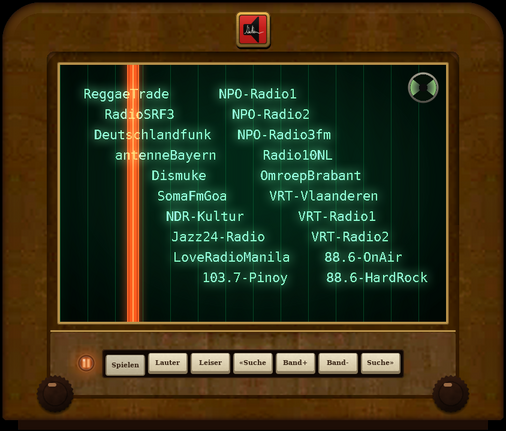
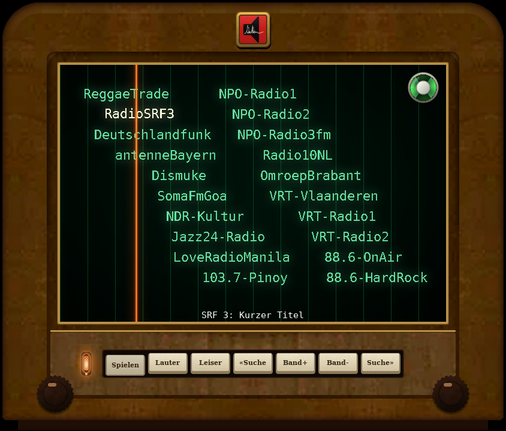
Dial: narrow needle, softer lettering; realistic magic eye and neon tube, no flicker
- Tuner is a narrow glowing needle instead of the wide glass bar.
- Station names, backlight and bloom are dimmer.
- Flickering removed (looked artificial); no extra frames any more.
- Magic eye like a real tube seen from the top: vivid green ring with
  angular light patches, light grey metal cap, dim green shadow sectors,
  glass reflection.
- Pilot lamp as an upright neon glow tube with a cross-hatched mesh
  electrode, bright spot, warm halo and glass tip; in a small window.

diff --git a/cabinet.c b/cabinet.c
@@ -5,7 +5,7 @@
  * A post-war table radio in the style of around 1950: box-shaped walnut
  * case with rounded top edges, a wide light veneer frame around a darker
  * front panel holding the dial, a figured lower panel with a row of small
- * ivory push buttons with printed labels, a neon pilot lamp and two
+ * ivory push buttons with printed labels, a neon glow lamp and two
  * Bakelite knobs that work as step buttons (left / right, repeating while
  * held). The magic eye (eye_init / eye_render) sits in the dial.
  *
@@ -380,9 +380,8 @@ static SDL_Surface *draw_case(void)
     rrect(s, kx - 6, ky - 6, kx2 + KEY_W + 6, ky + KEY_H + 8, 5, 0x100804, 1.5, 0x3a2412);
   }
 
-  /* lamp socket */
-  rrect(s, LAMP_X - LAMP_R - 4, LAMP_Y - LAMP_R - 4, LAMP_X + LAMP_R + 4, LAMP_Y + LAMP_R + 4,
-        LAMP_R + 4, 0x1a0d06, 2.5, 0x6a4a28);
+  /* window for the neon tube */
+  rrect(s, LAMP_X - 11, LAMP_Y - 21, LAMP_X + 11, LAMP_Y + 23, 8, 0x1a0d06, 2.5, 0x6a4a28);
   return s;
 }
 
@@ -455,56 +454,69 @@ static SDL_Surface *draw_knob(int k, int down)
 }
 
 /*
- * Pilot lamp as a neon glow lamp: a small glass bulb with two electrode
- * plates. state 0: off (grey glass, dark plates), 1: orange neon glow
- * around the plates, 2: red (muted).
+ * Pilot lamp as a small neon glow lamp: an upright glass tube with a
+ * cross-hatched mesh electrode that glows orange (red when muted), with a
+ * bright spot, a warm halo and the glass tip at the bottom.
+ * state 0: off (clear glass, grey mesh).
  */
 static SDL_Surface *draw_lamp(int state)
 {
   SDL_Surface *s = SDL_CreateRGBSurfaceWithFormat(0, LAMP_S, LAMP_S, 32, SDL_PIXELFORMAT_ARGB8888);
-  double c = LAMP_S / 2.0;
+  const double c = LAMP_S / 2.0, hw = 7.5, hh = 17;       /* tube half width / height */
+  uint32_t neon = state == 2 ? 0xff3010 : 0xff8a28;
   int x, y;
-  uint32_t neon = state == 2 ? 0xff2a12 : 0xff7424;
 
   if (s == NULL)
     return NULL;
   SDL_FillRect(s, NULL, 0);
   for (y = 0; y < LAMP_S; y++)
     for (x = 0; x < LAMP_S; x++) {
-      double dx = x + 0.5 - c, dy = y + 0.5 - c, r = hypot(dx, dy);
-      double e1 = hypot(fmax(fabs(dx + 3.5) - 1.2, 0), fmax(fabs(dy) - 6, 0));  /* plates */
-      double e2 = hypot(fmax(fabs(dx - 3.5) - 1.2, 0), fmax(fabs(dy) - 6, 0));
-      double e = fmin(e1, e2), a = LAMP_R - r > 1 ? 1 : LAMP_R - r;
+      double dx = x + 0.5 - c, dy = y + 0.5 - c;
+      double d = sd_rrect(x + 0.5, y + 0.5, c - hw, c - hh, c + hw, c + hh, hw);
+      double a = 0.5 - d > 1 ? 1 : 0.5 - d;
+      double in = d < -2.2;                                 /* inside the glass wall */
+      double mesh, glow;
 
-      if (state)                                                 /* halo outside */
-        blend(s, x, y, neon, 0.50 * exp(-pow(r / (LAMP_R * 1.7), 2)));
-      if (r >= LAMP_R)
+      if (state)                                            /* warm halo */
+        blend(s, x, y, neon, 0.65 * exp(-(dx * dx / 200 + dy * dy / 520)));
+      if (a <= 0)
         continue;
-      blend(s, x, y, state ? 0x6a2a10 : 0x2c2826, a * 0.92);       /* glass */
-      if (state) {                                               /* glow cloud */
-        blend(s, x, y, neon, a * exp(-e / 3.6));
-        blend(s, x, y, 0xffc890, a * 0.75 * exp(-e / 1.3));      /* hot core */
-      } else if (e < 0.8) {
-        blend(s, x, y, 0x6a6460, a * (0.8 - e));                 /* bare plates */
+      blend(s, x, y, state ? 0x5a2008 : 0x303030, a * 0.55);   /* glass body */
+      /* diagonal wire mesh in the middle of the tube */
+      mesh = fmin(fabs(fmod(dx + dy + 100, 4.0) - 2.0), fabs(fmod(dx - dy + 100, 4.0) - 2.0));
+      if (in && fabs(dx) < hw - 3 && fabs(dy) < hh - 5) {
+        double wire = mesh < 0.7 ? 1 : 0;
+        if (state) {
+          glow = exp(-(dx * dx / 18 + (dy - 2) * (dy - 2) / 90));   /* bright spot */
+          blend(s, x, y, neon, 0.85);
+          blend(s, x, y, 0xfff0c8, 0.9 * glow);
+          if (wire)
+            blend(s, x, y, 0x7a2a08, 0.55 * (1 - glow));
+        } else if (wire) {
+          blend(s, x, y, 0x8a8680, 0.8);
+        }
       }
-      if (r > LAMP_R - 2)                                        /* glass rim */
-        blend(s, x, y, 0x9a948c, a * 0.35);
-      if (hypot(dx + 4, dy + 5) < 2.2)                           /* reflection */
-        blend(s, x, y, 0xffffff, 0.45);
+      if (d > -2.2)                                          /* glass wall */
+        blend(s, x, y, state ? 0xffb070 : 0xb8b4ac, a * 0.45);
+      if (dx < -hw + 3.5 && dx > -hw + 2 && fabs(dy) < hh - 6)
+        blend(s, x, y, 0xffffff, 0.40);                    /* reflection */
     }
+  /* glass tip */
+  rrect(s, c - 2, c + hh - 1, c + 2, c + hh + 3, 2, state ? 0xffb070 : 0x9a968e, 0, 0);
   return s;
 }
 
 /*
- * Magic eye (tuning indicator tube, seen from the front): green
- * fluorescent ring around a dark cap, with two dark shadow sectors at the
- * top and bottom. open = 1: detuned, wide sectors; open = 0: tuned in,
- * the sectors are closed.
+ * Magic eye (tuning indicator tube, seen from the top): vivid green
+ * fluorescent ring under a glass dome, a light grey metal cap in the
+ * centre and two darker shadow sectors (top and bottom). open = 1:
+ * detuned, wide sectors; open = 0: tuned in, the sectors are closed.
  */
 static SDL_Surface *draw_eye(double open)
 {
   SDL_Surface *s = SDL_CreateRGBSurfaceWithFormat(0, EYE_S, EYE_S, 32, SDL_PIXELFORMAT_ARGB8888);
-  double c = EYE_S / 2.0, half = 4 + open * 50;   /* half width of a sector, degrees */
+  const double c = EYE_S / 2.0, cap = EYE_R * 0.52;
+  double half = 4 + open * 50;                     /* half width of a sector, degrees */
   int x, y;
 
   if (s == NULL)
@@ -513,25 +525,37 @@ static SDL_Surface *draw_eye(double open)
   for (y = 0; y < EYE_S; y++)
     for (x = 0; x < EYE_S; x++) {
       double dx = x + 0.5 - c, dy = y + 0.5 - c, r = hypot(dx, dy);
-      double deg = fabs(atan2(dx, -dy)) * 180 / M_PI;   /* 0 = up, 180 = down */
-      double off = deg < 90 ? deg : 180 - deg;           /* distance to the axis */
-      double edge, glow, a;
-      if (r > EYE_R && r < EYE_R + 4) {                  /* chrome bezel */
+      double ang = atan2(dx, -dy);
+      double deg = fabs(ang) * 180 / M_PI;         /* 0 = up, 180 = down */
+      double off = deg < 90 ? deg : 180 - deg;     /* distance to the axis */
+      double a, lit, facet, v;
+
+      if (r > EYE_R && r < EYE_R + 4) {            /* chrome bezel */
         double t = 1.1 - 0.5 * (dy + EYE_R) / (2.0 * EYE_R);
         blend(s, x, y, rgbf(170 * t, 165 * t, 150 * t), EYE_R + 4 - r > 1 ? 1 : EYE_R + 4 - r);
       }
       if (r > EYE_R)
         continue;
       a = EYE_R - r > 1 ? 1 : EYE_R - r;
-      blend(s, x, y, 0x06140a, a);                       /* dark glass */
-      if (r > 7) {
-        edge = (off - half) / 2.5;                       /* soft shadow edge */
-        glow = edge > 1 ? 1 : edge < 0 ? 0 : edge;
-        glow *= 0.55 + 0.45 * (r - 7) / (EYE_R - 7);     /* brighter outside */
-        blend(s, x, y, rgbf(60 + 120 * glow, 255 * glow, 90 + 60 * glow), a * glow);
+      blend(s, x, y, 0x03120a, a);                 /* dark background */
+      if (r > cap - 1) {
+        lit = (off - half) / 2.0;                  /* soft shadow edge */
+        lit = lit > 1 ? 1 : lit < 0 ? 0 : lit;
+        facet = 0.82 + 0.18 * cos(ang * 4 + 0.6);  /* angular light patches */
+        v = (0.62 + 0.38 * (r - cap) / (EYE_R - cap)) * facet;
+        /* lit: vivid green; shadow: dim green, not black */
+        blend(s, x, y, rgbf((25 + 55 * v) * (0.25 + 0.75 * lit), (255 * v) * (0.3 + 0.7 * lit),
+                            (45 + 45 * v) * (0.25 + 0.75 * lit)), a);
       }
-      if (r < 7)                                         /* cathode cap */
-        blend(s, x, y, 0x101010, 7 - r > 1 ? 1 : 7 - r);
+      if (r < cap + 0.5) {                         /* light grey metal cap */
+        double t = 1.0 - 0.25 * (dx + dy) / (2 * cap);
+        blend(s, x, y, rgbf(214 * t, 214 * t, 204 * t), cap + 0.5 - r > 1 ? 1 : cap + 0.5 - r);
+        if (r > cap - 1.2)
+          blend(s, x, y, 0x707068, 0.5);
+      }
+      /* glass dome: a soft reflection arc at the top left */
+      if (r > EYE_R * 0.72 && r < EYE_R * 0.9 && ang < -0.4 && ang > -1.6)
+        blend(s, x, y, 0xffffff, 0.22);
     }
   return s;
 }

diff --git a/roehre.c b/roehre.c
@@ -75,7 +75,6 @@
 #define TUNE_DELAY_MS 1000  // station must stay tuned this long before it plays
 #define SCAN_STEP 2         // px per tick while auto-scanning
 #define KEY_STEP 5          // px per cursor key press
-#define FLICKER_MS 50       // magic eye / neon lamp flicker frame rate
 #define NOISE_LEVEL 0.35    // static at full volume when fully detuned
 #define KNOB_DELAY_MS 400   // cabinet knob held: repeat after ...
 #define KNOB_REPEAT_MS 50   // ... one step every ...
@@ -532,8 +531,8 @@ static void draw_grid(void)
 
 static void draw_stations(void)
 {
-  const SDL_Color normal = { 120, 238, 172, 255 };     /* backlit mint green */
-  const SDL_Color highlight = { 255, 250, 205, 255 };
+  const SDL_Color normal = { 92, 196, 140, 255 };      /* backlit mint green */
+  const SDL_Color highlight = { 232, 236, 196, 255 };
   const struct page *p = page_now();
   int i, w, h;
 
@@ -564,15 +563,12 @@ static void blend_rect(int x0, int y0, int w, int h, int r, int g, int b, double
   }
 }
 
-/* the tuner: a translucent, glowing orange bar with a bright core */
+/* the tuner: a narrow glowing needle */
 static void draw_tuner(void)
 {
   int x = tuner_x() + 2;
-  blend_rect(x - 10, OFFSET_Y, 20, VISIBLE_HEIGHT, 255, 55, 10, 0.40);   /* glass bar */
-  blend_rect(x - 6, OFFSET_Y, 12, VISIBLE_HEIGHT, 255, 85, 25, 0.35);
-  blend_rect(x - 10, OFFSET_Y, 2, VISIBLE_HEIGHT, 255, 130, 60, 0.45);   /* lit edges */
-  blend_rect(x + 8, OFFSET_Y, 2, VISIBLE_HEIGHT, 255, 130, 60, 0.45);
-  blend_rect(x - 1, OFFSET_Y, 2, VISIBLE_HEIGHT, 255, 180, 120, 0.55);
+  blend_rect(x - 4, OFFSET_Y, 8, VISIBLE_HEIGHT, 255, 70, 15, 0.18);     /* faint halo */
+  blend_rect(x - 1, OFFSET_Y, 3, VISIBLE_HEIGHT, 255, 110, 30, 0.95);    /* needle */
 }
 
 /*
@@ -595,8 +591,8 @@ static void make_backplate(void)
       double dx = (x - WIN_WIDTH / 2.0) / (WIN_WIDTH * 0.55);
       double dy = (y - WIN_HEIGHT * 0.45) / (WIN_HEIGHT * 0.6);
       double g = exp(-(dx * dx + dy * dy));
-      row[x] = 0xff000000u | (Uint32)((int)(2 * g) << 16) | (Uint32)((int)(20 * g) << 8) |
-               (Uint32)(int)(12 * g);
+      row[x] = 0xff000000u | (Uint32)((int)(1 * g) << 16) | (Uint32)((int)(12 * g) << 8) |
+               (Uint32)(int)(7 * g);
     }
   }
 }
@@ -659,7 +655,7 @@ static void bloom(SDL_Surface *s)
       for (c = 0; c < 3; c++) {
         float g = (a[(y0 * sw + x0) * 3 + c] * (1 - wx) + a[(y0 * sw + x1) * 3 + c] * wx) * (1 - wy) +
                   (a[(y1 * sw + x0) * 3 + c] * (1 - wx) + a[(y1 * sw + x1) * 3 + c] * wx) * wy;
-        int v = (int)(((p >> (16 - 8 * c)) & 0xff) + 1.1f * g);
+        int v = (int)(((p >> (16 - 8 * c)) & 0xff) + 0.6f * g);
         out |= (Uint32)(v > 255 ? 255 : v) << (16 - 8 * c);
       }
       row[x] = out;
@@ -764,17 +760,9 @@ static void draw_everything(int full)
   present();
 }
 
-/* slow random flicker in -1..1 (sum of detuned sines plus a little noise) */
-static double flicker(double t, double seed)
-{
-  return 0.5 * sin(t * 7.3 + seed) + 0.3 * sin(t * 17.9 + 2 * seed) +
-         0.2 * sin(t * 43.1 + 3 * seed) + 0.15 * ((rand() / (double)RAND_MAX) * 2 - 1);
-}
-
 /* put the dial texture (with case), the magic eye and the lamp on screen */
 static void present(void)
 {
-  double t = now_ms() / 1000.0;
   int ex = WIN_WIDTH - 38, ey = 38;   /* magic eye: top right in the dial */
 
   SDL_RenderClear(renderer);
@@ -782,15 +770,13 @@ static void present(void)
     int playing = !cur_paused;  /* "Spielen" latched like the lamp */
     lamp_shown = lamp_state();
     cabinet_render(renderer, texture, pressed_key,   /* play latched while playing */
-                   playing ? 1u << CAB_KEY_PLAY : 0, lamp_shown,
-                   0.93 + 0.06 * flicker(t, 1.7));
+                   playing ? 1u << CAB_KEY_PLAY : 0, lamp_shown, 1.0);
     ex += CAB_DIAL_X;
     ey += CAB_DIAL_Y;
   } else {
     SDL_RenderCopy(renderer, texture, NULL, NULL);
   }
-  eye_render(renderer, ex, ey, eye_opening() + 0.025 * flicker(t, 4.1),
-             0.88 + 0.08 * flicker(t, 0.3));
+  eye_render(renderer, ex, ey, eye_opening(), 1.0);
   SDL_RenderPresent(renderer);
 }
 
@@ -1419,7 +1405,7 @@ int main(int argc, char *argv[])
     { "help", no_argument, NULL, 'h' },
     { NULL, 0, NULL, 0 }
   };
-  uint64_t next_redraw = 0, next_poll = 0, next_save = 0, next_flicker = 0, t;
+  uint64_t next_redraw = 0, next_poll = 0, next_save = 0, t;
   int scrolling, presented;
   struct sigaction sa;
 
@@ -1570,10 +1556,6 @@ int main(int argc, char *argv[])
     if (t >= next_save) {
       save_position();  /* writes only if the dial has moved */
       next_save = t + SAVE_DELAY_MS;
-    }
-    if (!presented && t >= next_flicker) {  /* magic eye and neon lamp flicker */
-      present();
-      next_flicker = t + FLICKER_MS;
     }
     if (presented && scrolling) {
       /* smooth scrolling: ~60 fps. With vsync RenderPresent already

diff --git a/README.md b/README.md
@@ -148,13 +148,13 @@ Push buttons, left to right: Spielen (play/pause), Lauter (volume +), Leiser (vo
 "Spielen" stays pressed down while the radio plays (not paused). The knobs at the lower corners are
 step buttons: left knob tunes one step left, right knob one step right, holding repeats.
 
-The pilot lamp (left) is a neon glow lamp: on while the radio plays (also between
-stations), off while paused and red when muted.
+The pilot lamp (left) is a small neon glow tube with a glowing mesh electrode: on while
+the radio plays (also between stations), off while paused and red when muted.
 
-The dial is backlit: the lettering and lines glow, the tuner is a translucent glowing
-bar. The magic eye sits in the top right corner of the dial (in both views); it closes
-as the tuner reaches a station, opens between stations and flickers slightly, like the
-neon lamp.
+The dial is backlit: the lettering and lines glow softly, the tuner is a narrow glowing
+needle. The magic eye sits in the top right corner of the dial (in both views): a green
+fluorescent ring around a grey metal cap under a glass dome; its shadow sectors close as
+the tuner reaches a station and open between stations.
 The mouse wheel tunes. The labels use DejaVu Serif if installed, else the dial font.
 
 A brass-framed enamel badge with the Niethammer-Audio logo sits at the top centre (generated
